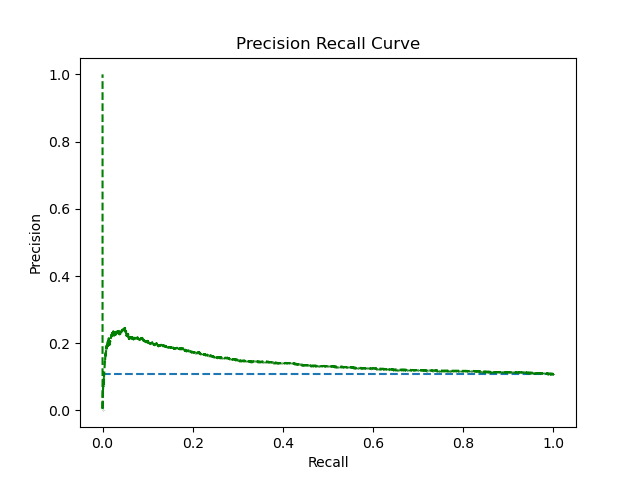
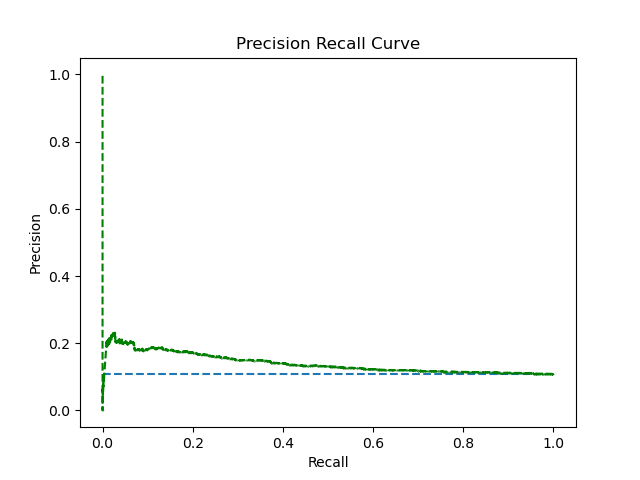
another good parameters

diff --git a/Enhanced-ANN-GSGD/bayesian_parameter_tuning_guided.py b/Enhanced-ANN-GSGD/bayesian_parameter_tuning_guided.py
@@ -30,7 +30,7 @@ def train_evaluate(parameterization):
     tensor_y = torch.Tensor(my_y)
 
     my_dataset = TensorDataset(tensor_x, tensor_y)
-    training_loader = DataLoader(my_dataset, batch_size= parameterization.get("batch_size", 7), shuffle= True)
+    training_loader = DataLoader(my_dataset, batch_size= parameterization.get("batch_size", 15), shuffle= True)
 
     #testing loader
     test_x = xts
@@ -83,8 +83,8 @@ def main_func():
 
 def net_train(net, train_loader, parameters, dtype, device):
 
-    l_rate = parameters.get("lr", 0.00085)
-    lamda = parameters.get("lambda", 0.001)  #Lambda will be used for L2 regularizaion
+    l_rate = parameters.get("lr", 0.02)
+    lamda = parameters.get("lambda", 1e-05)  #Lambda will be used for L2 regularizaion
     #momentum =  parameters.get("momentum", 0.9) 
     # dampening = parameters.get("dampening","0.9")
     betas = (0.9, 0.999)
@@ -121,9 +121,9 @@ def init_net(parameterization, d):
 
     #set architure of network here
     model = nn.Sequential(
-                      nn.Linear(d, parameterization.get("n_hiddenA",4)),
+                      nn.Linear(d, parameterization.get("n_hiddenA",300)),
                       nn.Sigmoid(),
-                      nn.Linear(parameterization.get("n_hiddenA", 4), 1),
+                      nn.Linear(parameterization.get("n_hiddenA", 300), 1),
                       nn.Sigmoid()).to(device=device)
 
     return model # return untrained model

diff --git a/Enhanced-ANN-GSGD/main.py b/Enhanced-ANN-GSGD/main.py
@@ -30,7 +30,7 @@ def GSGD_ANN(filePath):
     
     #model parameters
     l_rate =  0.02#0.0001#0.0002314354244#9.309681215145698e-15#3.0952770286463463e-07#0.0003314354244#0.00011852732093870824#0.00010926827346753853 #0.0002814354245#0.0002216960781458557#0.0002314354244 #0.000885 #0.061 #0.00025 #0.5
-    n_hidden = 300#36#29#50#36#4
+    n_hidden = 30#36#29#50#36#4
     lamda =  1e-06#0.5964800918102662#0.06067045242012771#1e-05#0.6980844659683136 #1e-06#0.0001  #Lambda will be used for L2 regularizaion
     betas = (0.9, 0.999)
     beta = 0.9
@@ -61,7 +61,7 @@ def GSGD_ANN(filePath):
     versetnum = 5 #number of batches used for verification
     epochs = 30#27#15
     revisitNum = 15
-    batch_size = 30#812#122#468#300#891#32
+    batch_size = 40#812#122#468#300#891#32
 
     #evaluate GSGD
     cache = is_guided_approach, rho, versetnum,epochs, revisitNum, N, network_GSGD, optimizer_GSGD, T, batch_size

diff --git a/Enhanced-ANN-GSGD/network.py b/Enhanced-ANN-GSGD/network.py
@@ -17,7 +17,7 @@ def train_network(network, data_x, data_y, loss_function, optimizer):
 def get_optimizer(network, name, cache):
     l_rate, lamda, betas, beta, epsilon = cache 
     if(name == 'SGD'):
-        return torch.optim.SGD(network.parameters(), lr=l_rate, weight_decay= lamda, momentum=0.1)
+        return torch.optim.SGD(network.parameters(), lr=l_rate, weight_decay= lamda)
         #return torch.optim.SGD(network.parameters(), lr=l_rate, weight_decay= lamda)
     elif(name == 'ADAM'):
         return torch.optim.Adam(network.parameters(), lr=l_rate, betas= betas,  weight_decay= lamda)
